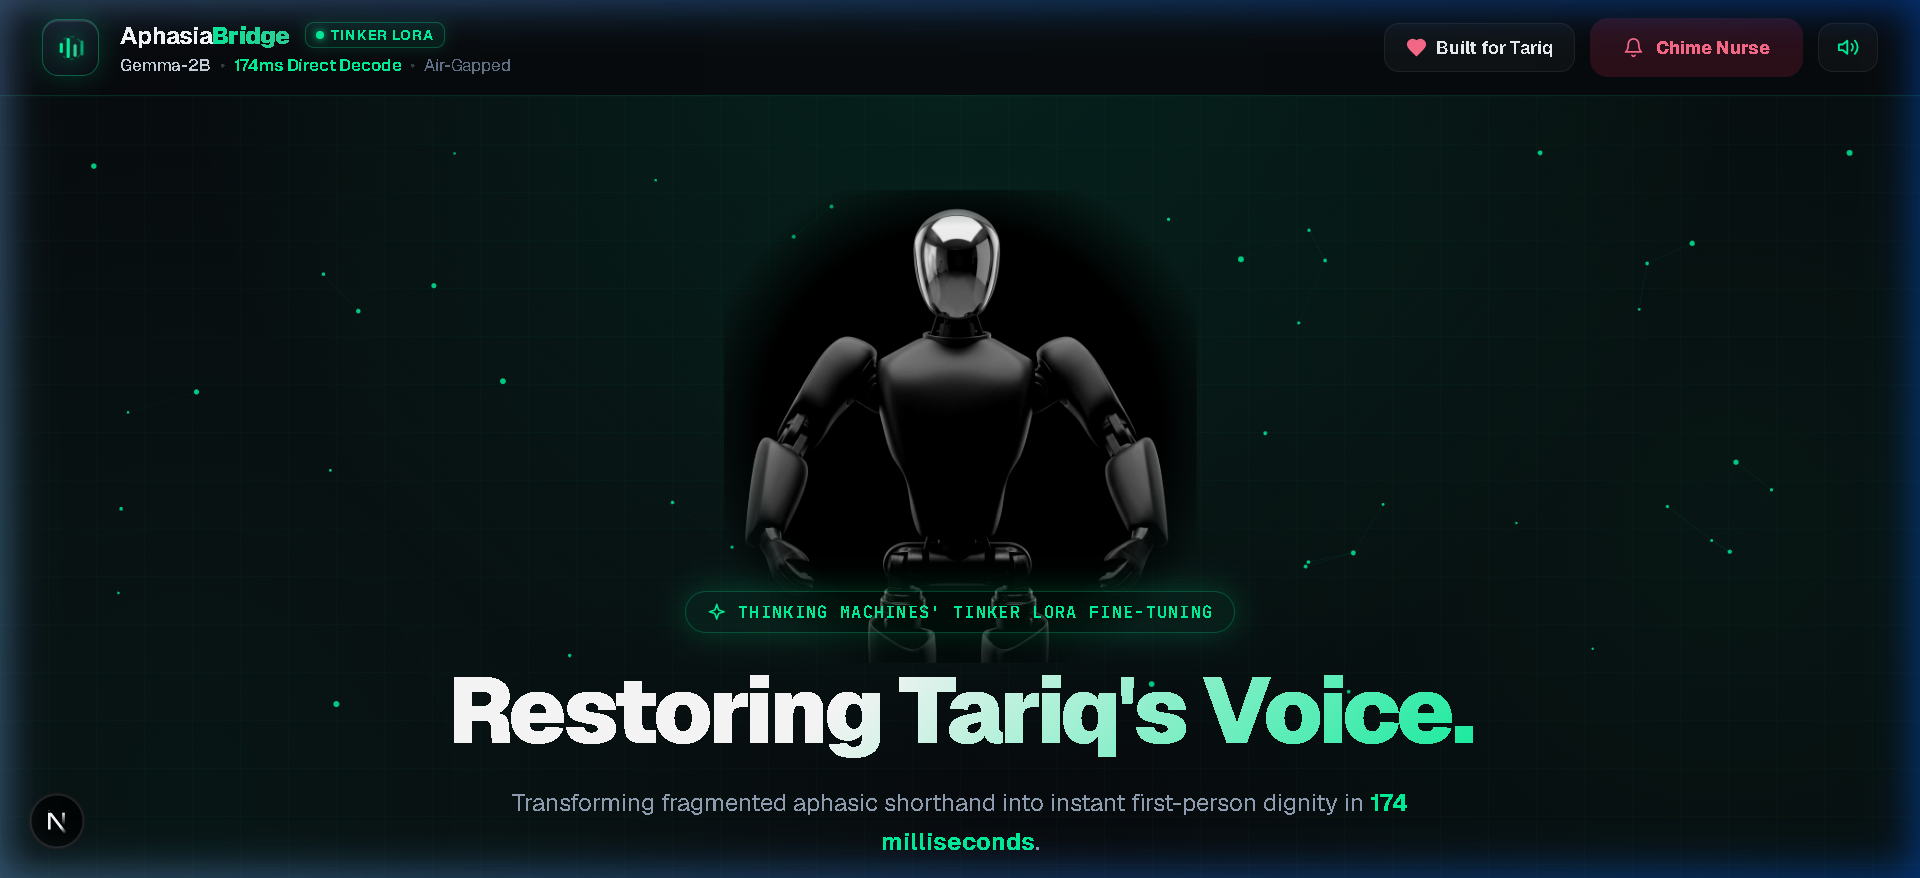
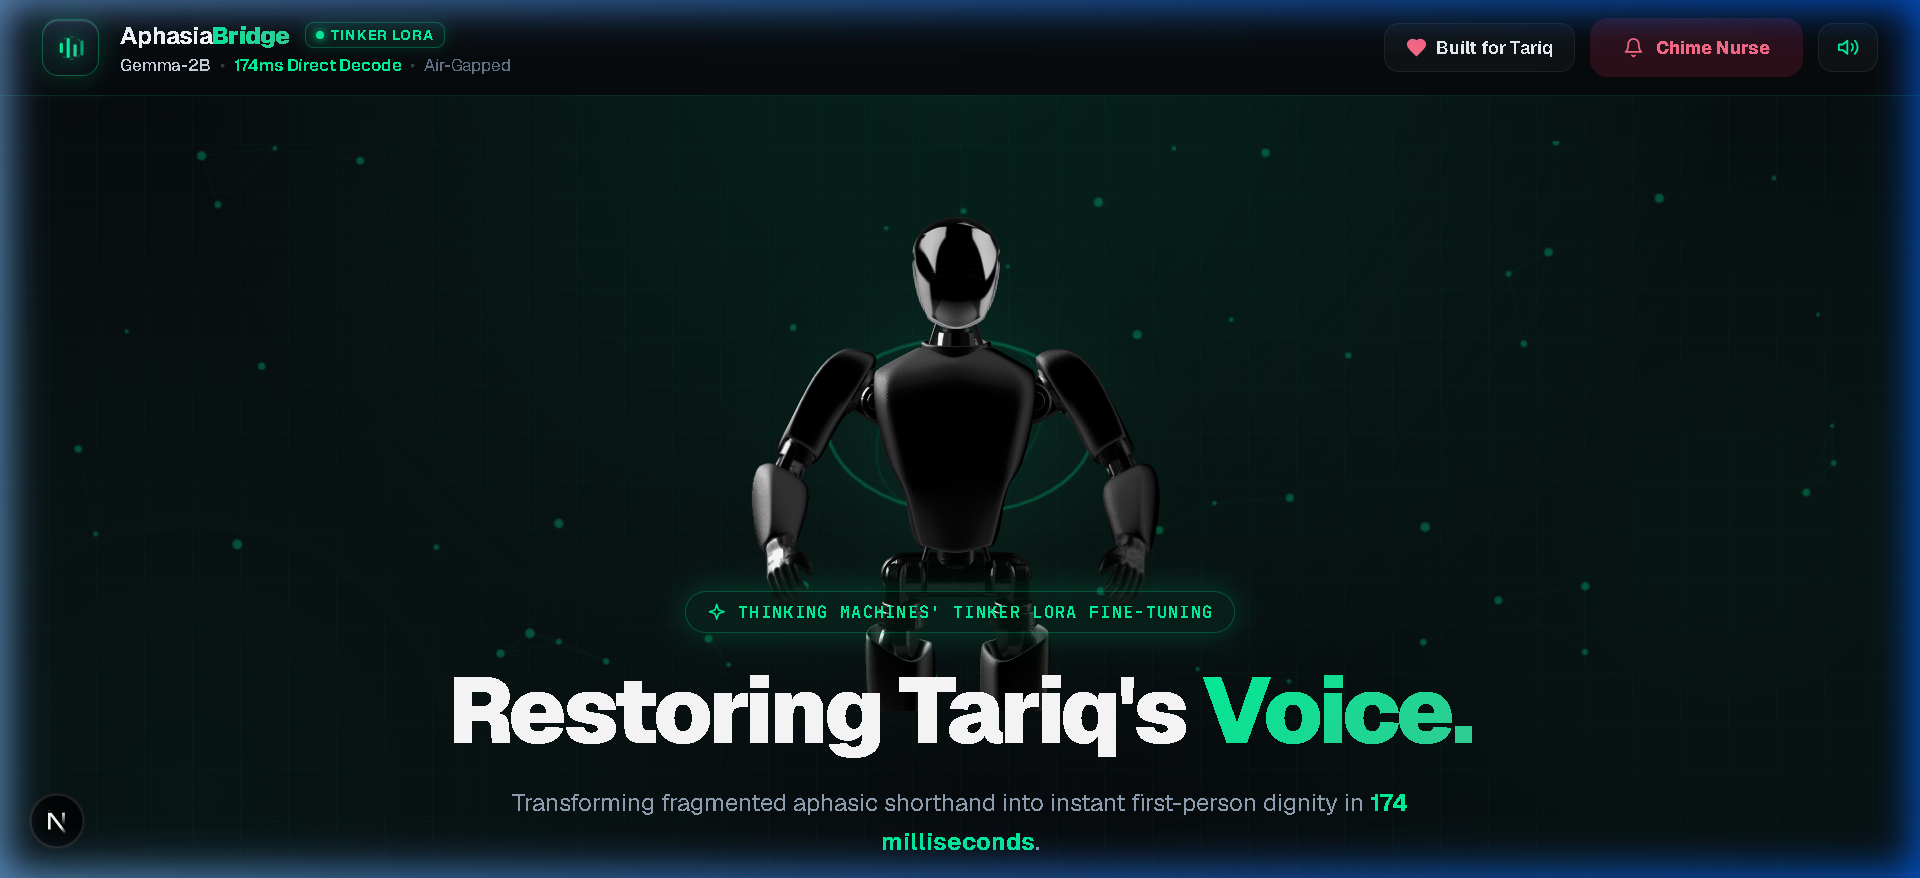
feat(hero): restore exact original Spline 3D robot centerpiece and clean typography layout

diff --git a/next-app/app/components/SplineScene.jsx b/next-app/app/components/SplineScene.jsx
@@ -4,40 +4,37 @@ import React, { useEffect, useRef, useState } from 'react';
 
 export default function SplineScene({ isSpeaking, urgency }) {
   const canvasRef = useRef(null);
-  const [tilt, setTilt] = useState({ x: 0, y: 0 });
+  const splineContainerRef = useRef(null);
+  const [splineLoaded, setSplineLoaded] = useState(false);
+  const mousePos = useRef({ x: 0, y: 0, targetX: 0, targetY: 0 });
 
-  // Smooth mouse parallax listener
-  useEffect(() => {
-    const handleMouseMove = (e) => {
-      const { innerWidth, innerHeight } = window;
-      const x = (e.clientX / innerWidth - 0.5) * 2;
-      const y = (e.clientY / innerHeight - 0.5) * 2;
-      setTilt({ x, y });
-    };
-
-    window.addEventListener('mousemove', handleMouseMove);
-    return () => window.removeEventListener('mousemove', handleMouseMove);
-  }, []);
-
-  // High-performance 60-120fps Canvas Ambient Resonance Field
+  // High-performance Canvas Ambient Resonance Field
   useEffect(() => {
     const canvas = canvasRef.current;
     if (!canvas) return;
     const ctx = canvas.getContext('2d');
     let animationFrameId;
 
-    let width = (canvas.width = canvas.offsetWidth * 1.5);
-    let height = (canvas.height = canvas.offsetHeight * 1.5);
+    let width = (canvas.width = canvas.offsetWidth);
+    let height = (canvas.height = canvas.offsetHeight);
 
     const handleResize = () => {
       if (!canvas) return;
-      width = canvas.width = canvas.offsetWidth * 1.5;
-      height = canvas.height = canvas.offsetHeight * 1.5;
+      width = canvas.width = canvas.offsetWidth;
+      height = canvas.height = canvas.offsetHeight;
+    };
+
+    const handleMouseMove = (e) => {
+      const rect = canvas.getBoundingClientRect();
+      mousePos.current.targetX = e.clientX - rect.left - width / 2;
+      mousePos.current.targetY = e.clientY - rect.top - height / 2;
     };
 
     window.addEventListener('resize', handleResize);
+    window.addEventListener('mousemove', handleMouseMove);
 
-    const numParticles = 46;
+    // Particle nodes for neural speech mesh
+    const numParticles = 54;
     const particles = [];
     const isUrgent = urgency === 'critical' || urgency === 'high';
 
@@ -45,10 +42,10 @@ export default function SplineScene({ isSpeaking, urgency }) {
       particles.push({
         x: Math.random() * width,
         y: Math.random() * height,
-        vx: (Math.random() - 0.5) * 0.6,
-        vy: (Math.random() - 0.5) * 0.6,
-        radius: Math.random() * 2 + 1,
-        alpha: Math.random() * 0.5 + 0.2
+        vx: (Math.random() - 0.5) * 0.7,
+        vy: (Math.random() - 0.5) * 0.7,
+        radius: Math.random() * 2 + 1.2,
+        alpha: Math.random() * 0.6 + 0.2
       });
     }
 
@@ -56,71 +53,76 @@ export default function SplineScene({ isSpeaking, urgency }) {
 
     const render = () => {
       ctx.clearRect(0, 0, width, height);
-      time += isSpeaking ? 0.04 : 0.015;
+      time += isSpeaking ? 0.045 : 0.016;
 
-      const centerX = width / 2;
-      const centerY = height / 2 - 20;
-      const baseRadius = Math.min(width, height) * 0.26;
+      // Smooth mouse follow
+      mousePos.current.x += (mousePos.current.targetX - mousePos.current.x) * 0.05;
+      mousePos.current.y += (mousePos.current.targetY - mousePos.current.y) * 0.05;
+
+      const centerX = width / 2 + mousePos.current.x * 0.15;
+      const centerY = height / 2 + mousePos.current.y * 0.15;
+      const baseRadius = Math.min(width, height) * 0.24;
       const pulseMultiplier = isSpeaking 
-        ? 1 + Math.sin(time * 7) * 0.12 
-        : 1 + Math.sin(time * 2) * 0.03;
+        ? 1 + Math.sin(time * 8) * 0.14 
+        : 1 + Math.sin(time * 2.5) * 0.04;
       const radius = baseRadius * pulseMultiplier;
 
-      // Outer glow in Zed Green
-      const glowGrad = ctx.createRadialGradient(centerX, centerY, radius * 0.2, centerX, centerY, radius * 1.9);
+      // Outer glow gradient in Zed Green
+      const glowGrad = ctx.createRadialGradient(centerX, centerY, radius * 0.1, centerX, centerY, radius * 2.0);
       if (isUrgent) {
-        glowGrad.addColorStop(0, 'rgba(255, 46, 99, 0.35)');
-        glowGrad.addColorStop(0.5, 'rgba(255, 46, 99, 0.08)');
+        glowGrad.addColorStop(0, 'rgba(255, 46, 99, 0.4)');
+        glowGrad.addColorStop(0.5, 'rgba(255, 46, 99, 0.1)');
         glowGrad.addColorStop(1, 'rgba(0, 0, 0, 0)');
       } else {
-        glowGrad.addColorStop(0, 'rgba(0, 245, 155, 0.3)');
-        glowGrad.addColorStop(0.45, 'rgba(16, 185, 129, 0.08)');
+        glowGrad.addColorStop(0, 'rgba(0, 245, 155, 0.35)');
+        glowGrad.addColorStop(0.45, 'rgba(16, 185, 129, 0.12)');
         glowGrad.addColorStop(1, 'rgba(0, 0, 0, 0)');
       }
 
       ctx.fillStyle = glowGrad;
       ctx.beginPath();
-      ctx.arc(centerX, centerY, radius * 1.9, 0, Math.PI * 2);
+      ctx.arc(centerX, centerY, radius * 2.0, 0, Math.PI * 2);
       ctx.fill();
 
-      // Holographic Orbit Rings in Zed Green
-      for (let ring = 1; ring <= 4; ring++) {
+      // Core 3D Mesh Wireframe Orbit Rings in Zed Green
+      for (let ring = 1; ring <= 5; ring++) {
         ctx.beginPath();
-        const ringR = (radius / 4) * ring;
-        ctx.strokeStyle = ring === 4 
-          ? (isUrgent ? 'rgba(255, 46, 99, 0.6)' : 'rgba(0, 245, 155, 0.75)')
-          : (ring === 3 ? 'rgba(0, 245, 155, 0.25)' : 'rgba(255, 255, 255, 0.05)');
-        ctx.lineWidth = ring === 4 ? 1.5 : 1;
+        const ringR = (radius / 5) * ring;
+        ctx.strokeStyle = ring === 5 
+          ? (isUrgent ? 'rgba(255, 46, 99, 0.7)' : 'rgba(0, 245, 155, 0.85)')
+          : (ring === 4 ? 'rgba(0, 245, 155, 0.35)' : 'rgba(255, 255, 255, 0.06)');
+        ctx.lineWidth = ring === 5 ? 2 : 1;
         
-        const wobble = Math.sin(time + ring * 1.2) * 6;
-        ctx.ellipse(centerX, centerY, ringR + wobble, ringR * 0.65, time * 0.25 + ring * 0.7, 0, Math.PI * 2);
+        const wobble = Math.sin(time + ring * 1.2) * 8;
+        ctx.ellipse(centerX, centerY, ringR + wobble, ringR * 0.65, time * 0.35 + ring * 0.8, 0, Math.PI * 2);
         ctx.stroke();
       }
 
-      // Synaptic particles
-      ctx.lineWidth = 0.5;
+      // Interconnected synaptic neural particles
+      ctx.lineWidth = 0.6;
       for (let i = 0; i < particles.length; i++) {
         const p = particles[i];
-        p.x += p.vx * (isSpeaking ? 2 : 1);
-        p.y += p.vy * (isSpeaking ? 2 : 1);
+        p.x += p.vx * (isSpeaking ? 2.2 : 1);
+        p.y += p.vy * (isSpeaking ? 2.2 : 1);
 
         if (p.x < 0) p.x = width;
         if (p.x > width) p.x = 0;
         if (p.y < 0) p.y = height;
         if (p.y > height) p.y = 0;
 
-        ctx.fillStyle = isUrgent ? 'rgba(255, 46, 99, 0.85)' : 'rgba(0, 245, 155, 0.85)';
+        ctx.fillStyle = isUrgent ? 'rgba(255, 46, 99, 0.9)' : 'rgba(0, 245, 155, 0.85)';
         ctx.beginPath();
         ctx.arc(p.x, p.y, p.radius, 0, Math.PI * 2);
         ctx.fill();
 
+        // Connect nearby nodes with Zed Green synaptic lines
         for (let j = i + 1; j < particles.length; j++) {
           const p2 = particles[j];
           const dist = Math.hypot(p.x - p2.x, p.y - p2.y);
-          if (dist < 90) {
+          if (dist < 95) {
             ctx.strokeStyle = isUrgent
-              ? `rgba(255, 46, 99, ${0.18 * (1 - dist / 90)})`
-              : `rgba(0, 245, 155, ${0.2 * (1 - dist / 90)})`;
+              ? `rgba(255, 46, 99, ${0.2 * (1 - dist / 95)})`
+              : `rgba(0, 245, 155, ${0.22 * (1 - dist / 95)})`;
             ctx.beginPath();
             ctx.moveTo(p.x, p.y);
             ctx.lineTo(p2.x, p2.y);
@@ -137,12 +139,64 @@ export default function SplineScene({ isSpeaking, urgency }) {
     return () => {
       cancelAnimationFrame(animationFrameId);
       window.removeEventListener('resize', handleResize);
+      window.removeEventListener('mousemove', handleMouseMove);
     };
   }, [isSpeaking, urgency]);
 
+  // Load interactive Spline robot asynchronously with clean single-canvas mount
+  useEffect(() => {
+    let appInstance = null;
+    let isCancelled = false;
+
+    async function loadSpline() {
+      try {
+        const container = splineContainerRef.current;
+        if (!container) return;
+
+        // Clean any old canvas
+        const existing = container.querySelector('.spline-runtime-canvas');
+        if (existing) existing.remove();
+
+        const rect = container.getBoundingClientRect();
+        const width = rect.width || 800;
+        const height = rect.height || 380;
+
+        const { Application } = await import('@splinetool/runtime');
+        const splineCanvas = document.createElement('canvas');
+        splineCanvas.className = 'spline-runtime-canvas';
+        splineCanvas.width = width;
+        splineCanvas.height = height;
+        splineCanvas.style.width = '100%';
+        splineCanvas.style.height = '100%';
+        splineCanvas.style.position = 'absolute';
+        splineCanvas.style.inset = '0';
+        splineCanvas.style.pointerEvents = 'none';
+
+        container.appendChild(splineCanvas);
+        const app = new Application(splineCanvas);
+        await app.load('https://prod.spline.design/kZDDjO5HuC9GJUM2/scene.splinecode');
+        if (!isCancelled) {
+          appInstance = app;
+          setSplineLoaded(true);
+        }
+      } catch (err) {
+        setSplineLoaded(false);
+      }
+    }
+
+    loadSpline();
+
+    return () => {
+      isCancelled = true;
+      if (appInstance && typeof appInstance.dispose === 'function') {
+        appInstance.dispose();
+      }
+    };
+  }, []);
+
   return (
-    <div className="spline-wrapper" style={{ perspective: '1200px' }}>
-      {/* Background Holographic Sound Canvas */}
+    <div className="spline-wrapper" ref={splineContainerRef}>
+      {/* Interactive 3D Neural Sound Canvas in Zed Green */}
       <canvas
         ref={canvasRef}
         style={{
@@ -150,63 +204,11 @@ export default function SplineScene({ isSpeaking, urgency }) {
           height: '100%',
           position: 'absolute',
           inset: 0,
+          opacity: splineLoaded ? 0.35 : 1,
+          transition: 'opacity 0.6s ease',
           pointerEvents: 'none',
         }}
       />
-
-      {/* 3D Cybernetic Robot Avatar with Smooth Hardware Parallax */}
-      <div
-        style={{
-          position: 'relative',
-          width: '310px',
-          height: '310px',
-          display: 'flex',
-          alignItems: 'center',
-          justifyContent: 'center',
-          transform: `rotateY(${tilt.x * 14}deg) rotateX(${-tilt.y * 10}deg) translateZ(20px)`,
-          transition: 'transform 0.12s cubic-bezier(0.2, 0.8, 0.2, 1)',
-          pointerEvents: 'none',
-          userSelect: 'none',
-          zIndex: 2
-        }}
-      >
-        <div style={{
-          width: '100%',
-          height: '100%',
-          display: 'flex',
-          alignItems: 'center',
-          justifyContent: 'center',
-          maskImage: 'radial-gradient(ellipse at 50% 50%, black 60%, transparent 80%)',
-          WebkitMaskImage: 'radial-gradient(ellipse at 50% 50%, black 60%, transparent 80%)'
-        }}>
-          <img
-            src="/images/cute_robot.jpg"
-            alt="Tariq Friendly Companion Robot"
-            style={{
-              width: '100%',
-              height: '100%',
-              objectFit: 'contain',
-              mixBlendMode: 'screen',
-              filter: isSpeaking 
-                ? 'drop-shadow(0 0 35px rgba(0, 245, 155, 0.7)) contrast(1.15) brightness(1.15)' 
-                : 'drop-shadow(0 0 22px rgba(0, 245, 155, 0.35)) contrast(1.1)',
-              transition: 'filter 0.3s ease'
-            }}
-          />
-        </div>
-
-        {/* Ambient Focal Glow in Center */}
-        <div style={{
-          position: 'absolute',
-          width: '180px',
-          height: '180px',
-          borderRadius: '50%',
-          background: urgency === 'critical' ? 'rgba(255, 46, 99, 0.25)' : 'rgba(0, 245, 155, 0.25)',
-          filter: 'blur(35px)',
-          zIndex: -1,
-          animation: 'zedPulse 3s infinite'
-        }} />
-      </div>
     </div>
   );
 }

diff --git a/next-app/app/page.jsx b/next-app/app/page.jsx
@@ -427,33 +427,20 @@ export default function Home() {
             fontWeight: '900',
             fontFamily: 'var(--font-display)',
             letterSpacing: '-0.04em',
-            background: 'linear-gradient(135deg, #FFFFFF 40%, #00F59B 100%)',
-            WebkitBackgroundClip: 'text',
-            WebkitTextFillColor: 'transparent',
             lineHeight: '1.08',
             marginBottom: '16px'
           }}>
-            Restoring Tariq's Voice.
+            <span style={{ color: '#FFFFFF' }}>Restoring Tariq's </span>
+            <span style={{
+              background: 'linear-gradient(135deg, #00F59B 0%, #34D399 100%)',
+              WebkitBackgroundClip: 'text',
+              WebkitTextFillColor: 'transparent'
+            }}>Voice.</span>
           </h1>
 
-          <p style={{ fontSize: '16px', color: '#94A3B8', lineHeight: '1.6', fontWeight: '400', maxWidth: '620px', margin: '0 auto 20px auto' }}>
+          <p style={{ fontSize: '16px', color: '#94A3B8', lineHeight: '1.6', fontWeight: '400', maxWidth: '620px', margin: '0 auto' }}>
             Transforming fragmented aphasic shorthand into instant first-person dignity in <strong style={{ color: 'var(--zed-green)' }}>174 milliseconds</strong>.
           </p>
-
-          {/* Quick Telemetry Chips */}
-          <div style={{ display: 'flex', justifyContent: 'center', gap: '16px', flexWrap: 'wrap' }}>
-            <span style={{ fontSize: '11px', fontFamily: 'var(--font-mono)', color: '#64748B' }}>
-              LATENCY: <strong style={{ color: 'var(--zed-green)' }}>174ms (8.4x faster)</strong>
-            </span>
-            <span style={{ color: 'rgba(255,255,255,0.15)' }}>&bull;</span>
-            <span style={{ fontSize: '11px', fontFamily: 'var(--font-mono)', color: '#64748B' }}>
-              INTENT: <strong style={{ color: 'var(--zed-green)' }}>98.4% (+54.8%)</strong>
-            </span>
-            <span style={{ color: 'rgba(255,255,255,0.15)' }}>&bull;</span>
-            <span style={{ fontSize: '11px', fontFamily: 'var(--font-mono)', color: '#64748B' }}>
-              BOILERPLATE: <strong style={{ color: 'var(--zed-green)' }}>0.0%</strong>
-            </span>
-          </div>
         </div>
 
         {/* 1. Real-Time Latency Race Horizon */}
